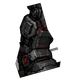
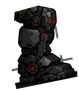
修用户实测四缺陷:镜像枢轴原点随翻转取1-u(朝左=精确镜像)/躯干扩切含胸区(抬枪无空洞)/后腿=前腿调暗副本(两腿一致)/静止站姿=母本战斗站姿(rigs.stance)/跪姿v2前膝高小腿垂直;白名单补chrome-devtools

diff --git a/src/entities/CharacterRig.js b/src/entities/CharacterRig.js
@@ -60,13 +60,16 @@ export class CharacterRig {
     const ph = this.gaitPhase
     const L = Phaser.Math.Linear
 
-    // —— 站立跑步步态(经典正弦摆,用户拍板定版,勿再改动数学形态) ——
+    // —— 移动步态(经典正弦摆,用户拍板定版,勿再改动数学形态) + 静止站姿混合 ——
+    // 站姿角度按 rig 配置(母本v2的战斗站姿,静止时=原画同款);未配置的骨架(机器人)保持垂直
+    const st = this.def.stance
+    const stance = st ? (1 - gait) * (1 - cr) : 0
     const swing = 34 * DEG * gait * (this.moveSign < 0 ? 0.78 : 1) * (1 - cr)
-    let thighF = Math.sin(ph) * swing
-    let thighB = Math.sin(ph + Math.PI) * swing
+    let thighF = Math.sin(ph) * swing + (st ? st.thighF * DEG * stance : 0)
+    let thighB = Math.sin(ph + Math.PI) * swing + (st ? st.thighB * DEG * stance : 0)
     const lift = 55 * DEG * gait * (1 - cr)
-    let shinF = Math.max(0, Math.sin(ph - 1.1)) * lift + 4 * DEG
-    let shinB = Math.max(0, Math.sin(ph + Math.PI - 1.1)) * lift + 4 * DEG
+    let shinF = Math.max(0, Math.sin(ph - 1.1)) * lift + 4 * DEG + (st ? (st.shinF - 4) * DEG * stance : 0)
+    let shinB = Math.max(0, Math.sin(ph + Math.PI - 1.1)) * lift + 4 * DEG + (st ? (st.shinB - 4) * DEG * stance : 0)
 
     // —— 下蹲(双姿态,对标《战火英雄》):静止=单膝跪;移动=保持低位的前后跨步;按移动强度 mb 混合 ——
     // 跪姿(几何按髋高20px解出):后腿大腿近垂直→膝盖触地,小腿(+90°)平贴地面朝后;
@@ -77,8 +80,9 @@ export class CharacterRig {
       const mb = Math.min(1, gait * 1.3)
       this._crouchDrop = 25 // 蹲行与跪姿同一低度(母本v2腿型:髋高48-25=23≈大腿长21,后膝可触地)
       this._crouchPitch = L(10, 16, mb)
-      // 跪姿(静止):小腿到鞋底31.5>大腿21,前脚收在身下靴尖点地(大靴倾角过大会视觉穿地,故收拢)
-      let tF = -95, sF = 55, tB = 10, sB = 80
+      // 跪姿(静止):真军姿单膝跪=前膝抬高(高于髋,大腿-108°)、小腿近垂直(总角-20°)、脚掌平踩,
+      // 后膝触地小腿后折——腿长(21/31.5)下这是唯一让前小腿立直、大靴不穿地的几何解
+      let tF = -108, sF = 88, tB = 10, sB = 80
       if (mb > 0.01) {
         // 低位潜行(双骨 IK):双脚钉住地面沿水平 ±24px 往返(迈步腿微抬 5px),
         // 由 IK 反解大小腿角——前伸腿伸展、收回腿深折于臀下,腿形反差即"蹲着走"
@@ -130,10 +134,19 @@ export class CharacterRig {
     // 应用到精灵
     for (const name of this.order) {
       const part = P[name]
+      const d = part.def
       part.spr.setPosition(part.px, part.py)
       part.spr.setRotation(part.ang)
-      if (part.def.aim) { part.spr.setFlipX(false); part.spr.setFlipY(f < 0) }
-      else { part.spr.setFlipX(f < 0); part.spr.setFlipY(false) }
+      // 翻转时枢轴原点必须沿翻转轴一起镜像:Phaser 的 flip 是绕帧中线翻贴图内容,
+      // 非对称贴图若原点不镜像,关节特征点会偏到 (1-2u)·尺寸 之外——"朝左完全变样"的根因
+      const ox = d.pivot[0] / d.size[0], oy = d.pivot[1] / d.size[1]
+      if (d.aim) {
+        part.spr.setFlipX(false); part.spr.setFlipY(f < 0)
+        part.spr.setOrigin(ox, f < 0 ? 1 - oy : oy)
+      } else {
+        part.spr.setFlipX(f < 0); part.spr.setFlipY(false)
+        part.spr.setOrigin(f < 0 ? 1 - ox : ox, oy)
+      }
     }
   }
 

diff --git a/docs/开发日志.md b/docs/开发日志.md
@@ -2,6 +2,17 @@
 
 > 倒序:最新的在上面。每次工作会话记一条:做了什么、验证结果、遗留问题。
 
+## 2026-07-13 · 深夜:用户实测四缺陷全修(胸腔空洞/腿不一致/镜像错位/跪姿夸张)
+- **[镜像 bug] 朝左"完全变了个样"**:Phaser 的 flip 绕帧中线翻贴图内容,但枢轴原点没跟着镜像——非对称贴图(躯干 pivot 在 0.6 位置)翻转后所有关节特征点偏移 (1-2u)·尺寸,整个人错位重组。修复:翻转时 setOrigin 沿翻转轴取 1-u(瞄准件对 y 轴同理)。GibSystem 检查过已是对的(中心偏移取反+绕居中原点)。**朝左现在=朝右的精确镜像**。
+- **[素材缺口] 抬枪胸腔空洞**:躯干多边形原本避开枪/臂区,那块像素根本不存在,枪一抬走就露洞。修复:躯干多边形扩到胸/枪托外轮廓——静止时被 armgun 盖住,抬枪露出的是"烤着臂影的完整胸甲"(深色对深色,游戏缩放不可见)。PB2 类游戏标准做法。
+- **[腿不一致] 前后腿两套贴图走路穿帮**:后腿改为前腿贴图的 0.8 亮度副本(copyFrom 机制)——两腿同形,调暗=天然纵深。
+- **[站姿] 静止=母本战斗站姿**:rigs.json 新增 per-rig stance(thighF -32.7/shinF 43.7/thighB 20/shinB -5.7,由母本量出);gaitIntensity 混合站姿↔走路摆。因贴图已垂直标准化,套站姿角=像素级还原原画。机器人无 stance 字段保持原样。
+- **[跪姿 v2]**:前膝抬高于髋(大腿 -108°)+小腿近垂直(+88)+脚掌平踩——腿长 21/31.5 下唯一让前小腿立直的几何;真军姿跪,不再"两腿夸张"。
+- 验收(泵帧+loop.sleep 冻结抓帧):抬枪40°胸腔实 ✓ 走路中帧两腿一致 ✓ 朝左站/跪=镜像 ✓ 新跪姿双向 ✓。
+- 生成配套素体图的尝试:ChatGPT 同会话两次都锚定到白色配色角色(一致性丢失)——**教训:同会话"同一个角色"指代不可靠,要么首条 prompt 锁配色,要么工程手段补缺**。白色战士图存为 参考10(未来友军/皮肤候选)。
+- 排障新知:验收截图与杂散 rAF 帧竞态 → `game.loop.sleep()` 冻结在目标帧拍照再 `wake()`。
+- 另:用户 ~/.claude 白名单补了 mcp__chrome-devtools 等(分类器不可用时的兜底)。
+
 ## 2026-07-13 · 玩家美术 v2 定稿:母本v2 + 切件管线 v3(关节由构造对齐)
 - 用户反馈上版两大问题:①关节处是空的、肢体没接上;②持枪动作怪。新母本=用户在 ChatGPT(Imagine 2)生成的战士图,经浏览器自动化从会话原图下载(1122×1402,docs/风格参考/参考9-母本v2.png);同会话另两张同风格人物存入 ai候选/ 作未来敌人母本。
 - **切件管线 v3(tools/cut-player.mjs 重写),对两个问题的根治**:

diff --git a/docs/素材许可.md b/docs/素材许可.md
@@ -8,6 +8,7 @@
 | 步枪立绘(AI生成) | docs/风格参考/ai候选/c4_rifle.jpg | 同上 | 同上 | 无 | (已弃用) | 2026-07-13 |
 | 玩家角色母本(用户提供,用户声明为 AI 生成) | docs/风格参考/参考8-切件母本.png | 用户桌面文件,用户声明由 AI 生成 | 按用户声明登记;仅取角色像素,图中背景/HUD(疑似截图合成)未使用 | 无 | (已被母本v2取代) | 2026-07-13 |
 | **玩家角色母本 v2(现役)** | docs/风格参考/参考9-母本v2.png | 用户本人 ChatGPT 账号以 Imagine 2 生成(会话"放大清晰人物图像"),经浏览器自动化下载原图 1122×1402 | 用户自己生成的 AI 内容;切件多边形/关节坐标留档于 tools/cut-player.mjs | 无 | 切件为 player_head/torso/armgun/thigh_f/shin_f/thigh_b/shin_b 共 7 件 | 2026-07-13 |
+| 素体尝试图(白色配色,未用于玩家) | docs/风格参考/参考10-素体母本.png | 用户 ChatGPT 账号 Imagine 2 生成(一致性偏离,配色错) | 用户自己生成的 AI 内容 | 无 | 备用(未来友军/皮肤候选) | 2026-07-13 |
 | 同风格人物 A/B(敌人母本候选,未使用) | docs/风格参考/ai候选/同风格人物A-持枪准备.png、同风格人物B-虚拟界面.png | 同上会话生成 | 同上 | 无 | 备用(机器人/敌人重做母本候选) | 2026-07-13 |
 
 > AI 生成素材说明:全部由文本 prompt 生成(pollinations.ai 或用户本人 ChatGPT 账号),未使用任何现有游戏素材作为图像输入;生成来源、切件多边形坐标均在 git 历史与 tools/cut-player.mjs 中留档,作为原创性证据链。
